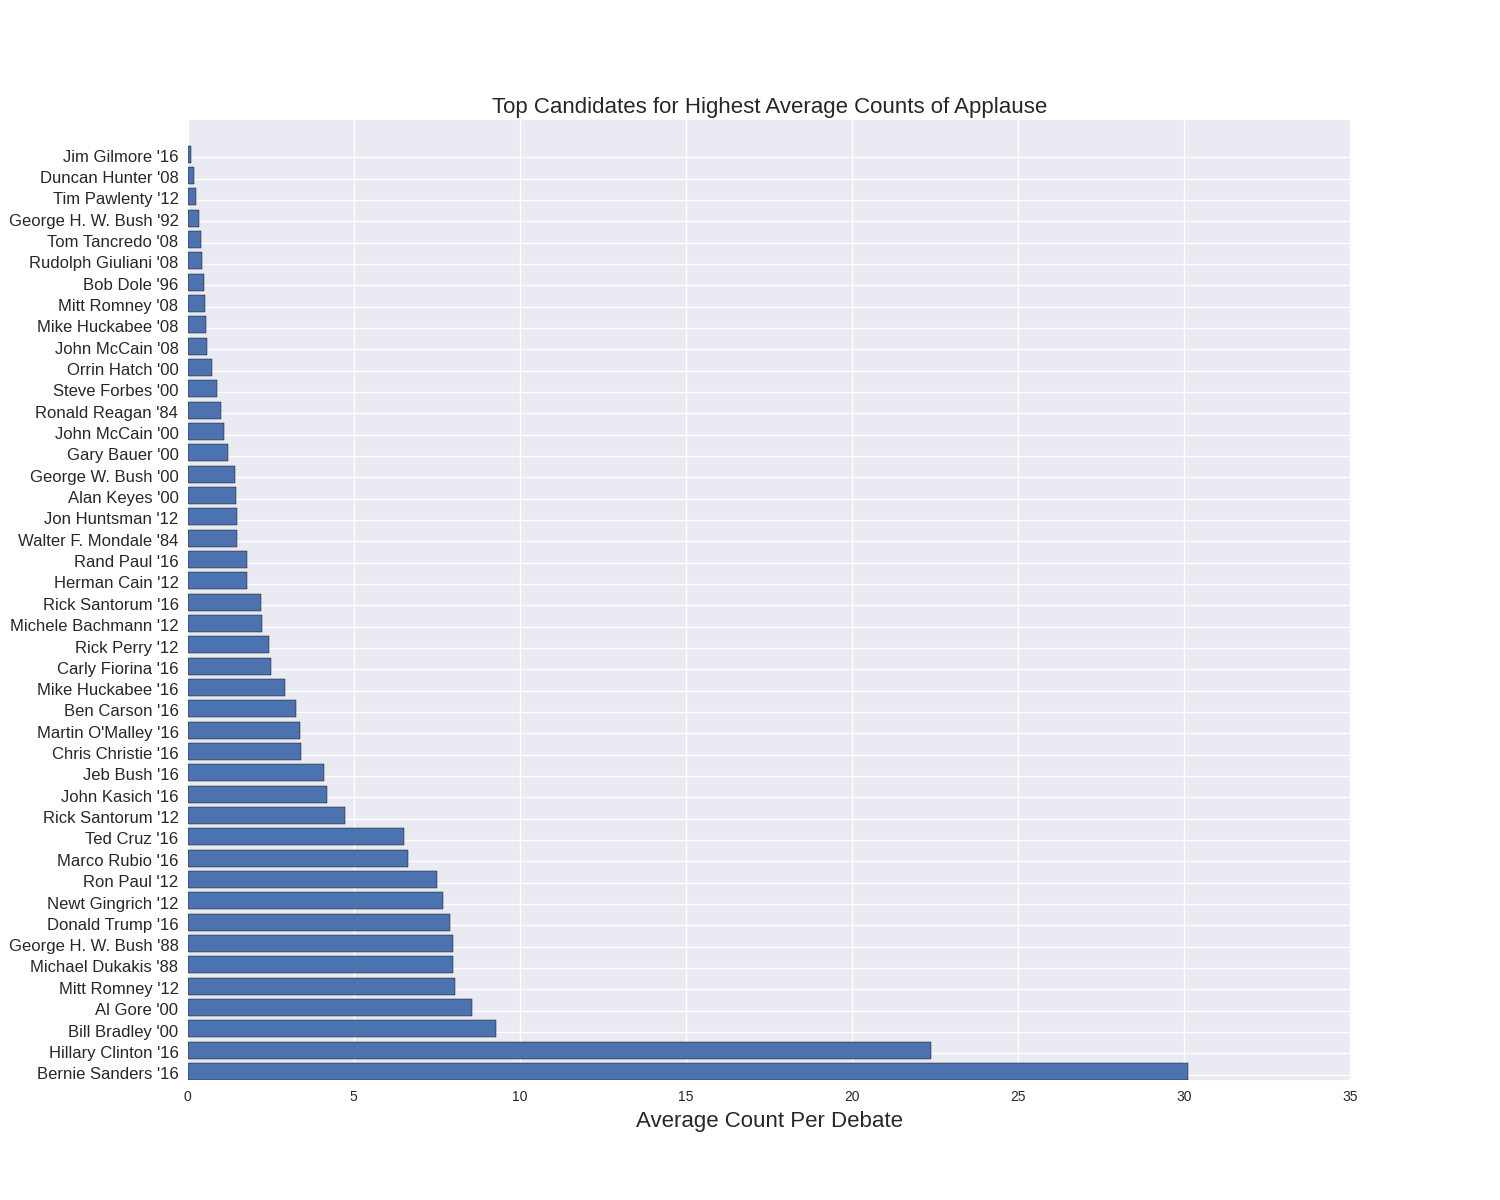
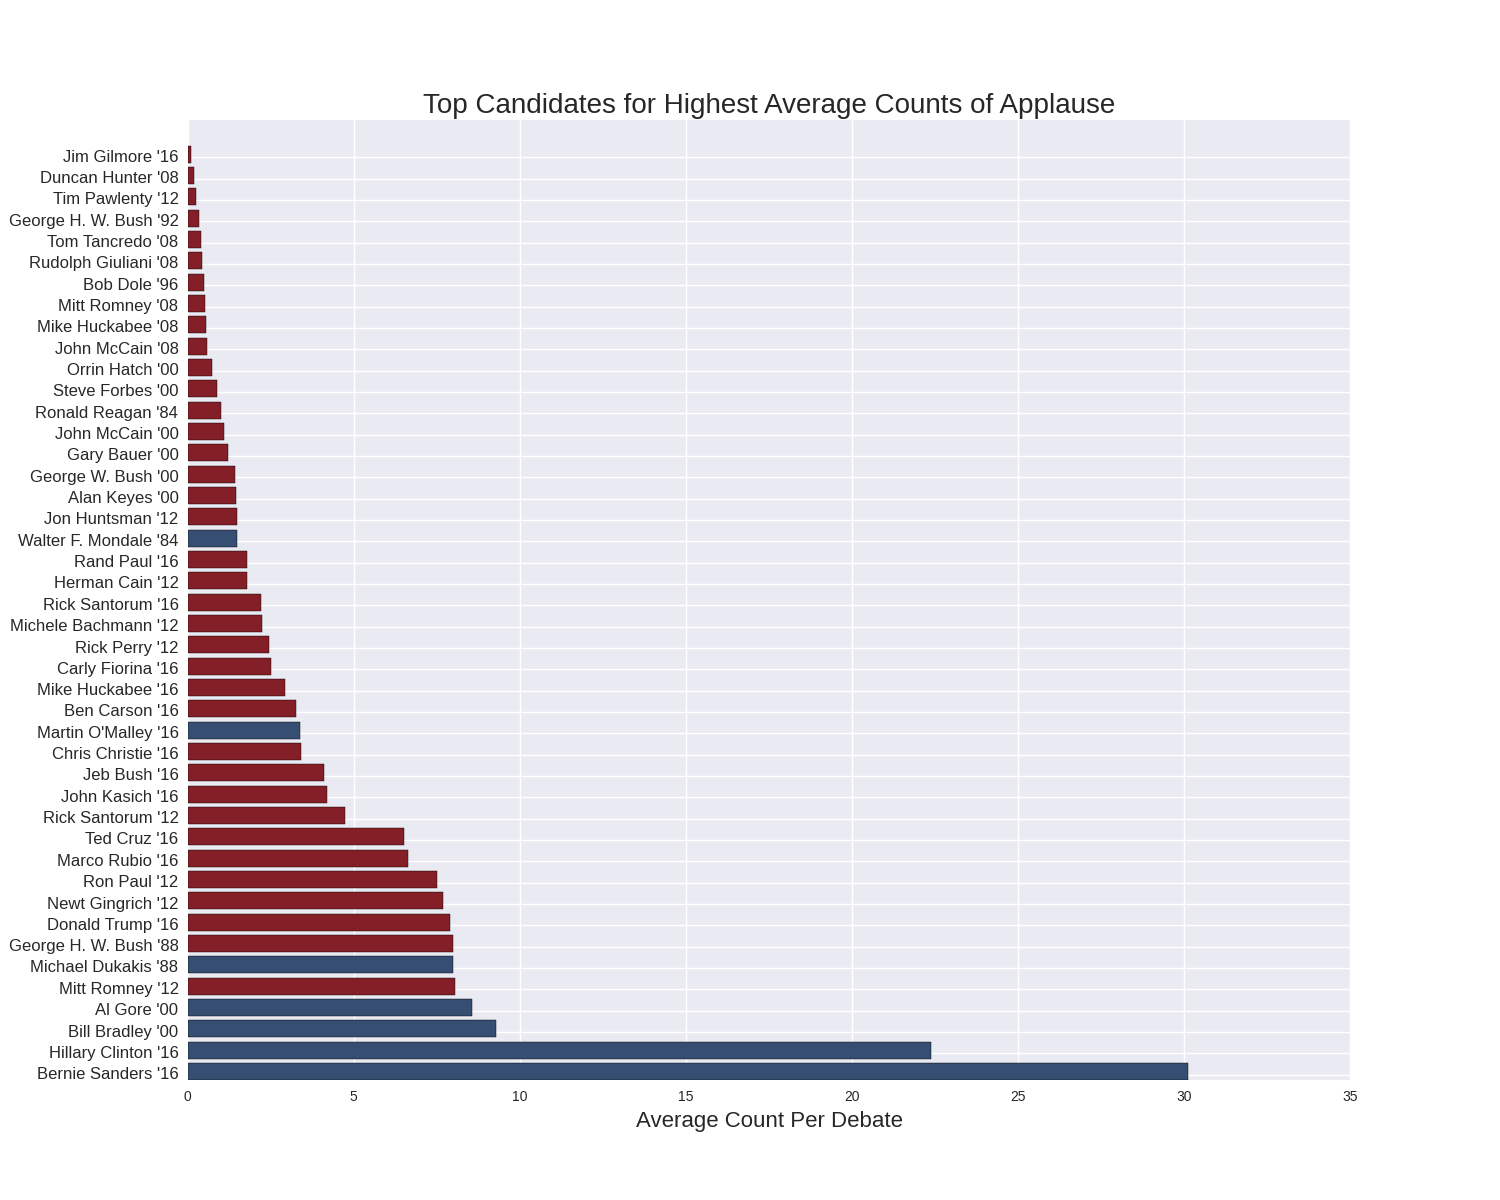
finalized images and graphs

Changed region(s): [[0.1227, 0.1542, 0.7973, 0.925], [0.276, 0.0617, 0.736, 0.0925]]

diff --git a/laugh_applause_wordcloud.py b/laugh_applause_wordcloud.py
@@ -46,12 +46,13 @@ def plot_graph(name,val):
 
 	x = [v[1] for v in val]
 	names = [v[0] for v in val]
+	colors = [v[2] for v in val]
 
 	plt.figure(figsize=(15,12))
 
-	p1 = plt.barh(y,x)
+	p1 = plt.barh(y,x,color=colors)
 	p2 = plt.yticks(y+width,names,fontsize=12)
-	plt.title('Top Candidates for Highest Average Counts of '+name.title(),fontsize=16)
+	plt.title('Top Candidates for Highest Average Counts of '+name.title(),fontsize=20)
 	plt.xlabel('Average Count Per Debate',fontsize=16)
 	plt.savefig(name+'_freq.png')
 	plt.close()
@@ -60,18 +61,25 @@ def get_top(name):
 	newf = codecs.open(name+'_count.json','r',encoding='utf-8')
 	f = json.load(newf)
 
+	lab = codecs.open('labels.json','r',encoding='utf-8')
+	labels = json.load(lab)
+
 	short_names = defaultdict(int)
+	short_to_long = {}
+	col_map = {'republican':'#841F27','democratic':'#354E71','independent':'#A5B557'}
+	
 	for key,val in f.iteritems():
 		person = key.split(' ')
 		year = person[-1]
 		n = ' '.join(person[:-2])+' \''+year[-2:]
 		short_names[n] += val
+		short_to_long[n] = key
 
 	top = sorted(filter(lambda x: short_names[x] > 0, short_names.keys()), key=short_names.get, reverse=True)
 
 	plot_vals = []
 	for person in top:
-		plot_vals.append([person,short_names[person]])
+		plot_vals.append([person,short_names[person],col_map[labels[short_to_long[person]]]])
 	
 	plot_graph(name,plot_vals)
 
